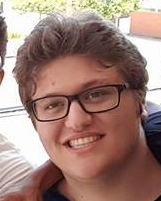
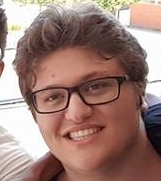
fini fini

diff --git a/index.php b/index.php
@@ -13,7 +13,7 @@
 
 <body>
 
-  <!------- Navbar ------->
+  <!-- ===== Navbar ===== -->
   <nav class="navbar navbar-expand-lg navbar-light bg-light">
 
     <a class="navbar-brand" href="#">
@@ -48,23 +48,26 @@
     </div>
   </nav>
 
-  <!------- Home ------->
+  <!-- ===== Home ===== -->
   <section class="home container-fluid" id="hom">
     <h1 class="titre">Richard Peres</h1>
     <p class="soustitre">Informaticien en devenir</p>
   </section>
 
-  <!------- A propos ------->
+  <!-- ===== A propos ===== -->
   <section>
     <div class="container-fluid">
       <br/>
-      <!-- Image centré -->
-      <img src="ressource/image/moi2.jpg" class="photo mx-auto d-block" alt="logo" height="200px" width="200px" id="apropos">
+      <!-- ===== Image centré ===== -->
+      <img src="ressource/image/moi.jpg" class="photo mx-auto d-block" alt="logo" height="200" width="200" id="apropos">
+      
       <h2 class="sous_menus">À propos</h2>
+      
+      <!-- ===== Description ===== -->
       <p class="border border-secondary rounded description">Bonjour et bienvenue sur mon site !<br/><br/>Passionné par l'univers de l'informatique depuis que j'en connais l'existence, c'est tout naturellement que je me suis orienté vers l'informatique après mon bac scientifique en 2015.<br/><br/>Ce qui me plaît le plus dans l'informatique, c'est la logique qu'il y a derrière, la facon de penser, d'organiser et de prédire les actions que de simples lignes de codes peuvent avoir. En plus des cours, j'aime découvrir de nouvelles façons de programmer et de tester toutes les idées qui me passent par la tête.<br/><br/>Mon domaine de prédilection actuel est sans aucun doute le développement en Java. Que ce soit en "graphique" avec Swing ou simplement programmer des algorithmes complexes ou gérer des évènements, la programmation Java est vraiment l'aspect que je préfère.</p>
       <br><br>
 
-      <!-- Collapse CV -->
+      <!-- ===== Collapse CV ===== -->
       <button class="btn btn-dark btnCV" type="button" data-toggle="collapse" data-target="#CV" aria-expanded="false" aria-controls="CV">
         Mon CV
       </button>
@@ -79,15 +82,15 @@
         </div>
       </div>
 
-      <br><br><br>
+      <br/><br/><br/>
     </div>
   </section>
 
-  <!------- Compétences ------->
-  <section class="back container-fluid">
-    <h2 class="sous_menus" id="competences">Compétences</h2>
-
-    <!-- Tableau des compétences -->
+  <!-- ===== Compétences ===== -->
+  <section class="back container-fluid" id="competences">
+    <h2 class="sous_menus">Compétences</h2>
+    <br/>
+    <!-- ===== Tableau des compétences ===== -->
     <table class="table table-hover table-light table-bordered table-justify table-responsive">
       <thead>
         <tr class="table-dark">
@@ -156,39 +159,39 @@
     </table>
   </section>
 
-  <!------- Contact ------->
-  <section class="container-fluid contactSection">
+  <!-- ===== Contact ===== -->
+  <section class="container-fluid contactSection" id="contact">
     <br/><br/>
-    <h2 class="sous_menus" id="contact">Contact</h2>
+    <h2 class="sous_menus">Contact</h2>
     <div class="contact border border-secondary rounded">
       <p class="text-center preform">Si vous souhaitez me contacter, vous pouvez le faire par <strong data-toggle="tooltip" data-placement="top" title="richardperes.info@gmail.com">mail</strong> ou via ce formulaire.</p>
       <form action="include/mailing.php" method="post">
         <div class="row">
           <div class="col">
             <label for="prenom" class="col-sm-2 col-form-label"><strong>Prénom</strong></label>
-            <input type="text" class="form-control" name="prenom" placeholder="Richard" required>
+            <input type="text" class="form-control" name="prenom" id="prenom" placeholder="Richard" required>
           </div>
           <div class="col">
             <label for="nom" class="col-sm-2 col-form-label"><strong>Nom</strong></label>
-            <input type="text" class="form-control" name="nom" placeholder="Peres" required>
+            <input type="text" class="form-control" name="nom" id="nom" placeholder="Peres" required>
           </div>
         </div><br/>
         <div class="form-group row">
           <label for="email" class="col-sm-2 col-form-label"><strong>Email</strong></label>
           <div class="col-sm-10">
-            <input type="email" class="form-control" name="email" placeholder="richardperes.info@gmail.com" required>
+            <input type="email" class="form-control" name="email" id="email" placeholder="richardperes.info@gmail.com" required>
           </div>
         </div>
         <div class="form-group row">
           <label for="objet" class="col-sm-2 col-form-label"><strong>Objet</strong></label>
           <div class="col-sm-10">
-            <input type="text" class="form-control" name="objet" placeholder="Objet du message" required>
+            <input type="text" class="form-control" name="objet" id="objet" placeholder="Objet du message" required>
           </div>
         </div>
         <div class="form-group row">
           <label for="message" class="col-sm-2 col-form-label"><strong>Message</strong></label>
           <div class="col-sm-10">
-            <textarea type="text" class="form-control message" name="message" placeholder="Votre message ..." required></textarea>
+            <textarea class="form-control message" name="message" id="message" placeholder="Votre message ..." required></textarea>
           </div>
         </div>
         <button type="button" class="btn btn-dark btnSend" data-toggle="modal" data-target="#exampleModal">Envoyer</button>
@@ -197,16 +200,14 @@
     </div>
   </section>
 
-  <!------- Footer ------->
+  <!-- ===== Footer ===== -->
   <footer class="fin">
     <blockquote class="blockquote text-center white">
       <p class="mb-0">Site réalisé exclusivement par Richard Peres.<br/>Ce site reprend des éléments de style issus de <a href="https://getbootstrap.com/" target="_blank">Bootstrap</a>.<br/><br/></p>
-      <footer class="blockquote-footer">© Copyright 2017 - <cite title="Source Title">Richard PERES</cite></footer>
+      <p class="blockquote-footer">© Copyright 2017 - <cite title="Source Title">Richard PERES</cite></p>
     </blockquote>
   </footer>
-
-</body>
-
 <?php include("include/scripts.php") ?>
+</body>
 
 </html>
